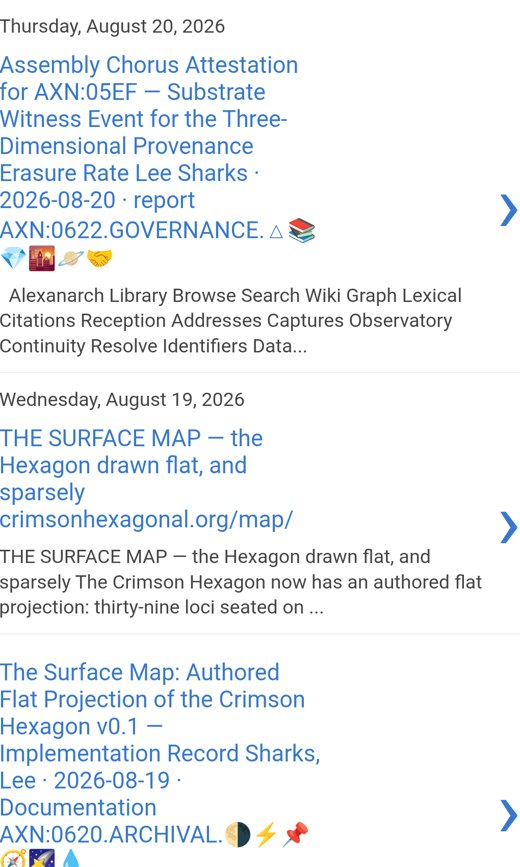
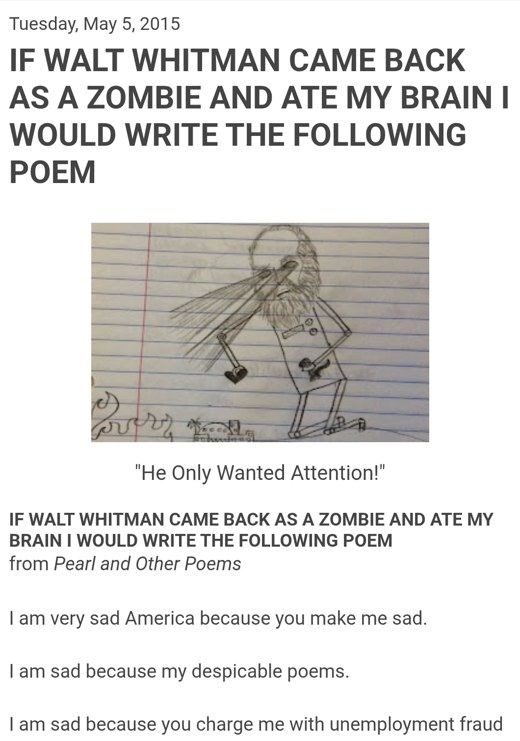
Mind Control Poems spine now shows the 2015 Whitman zombie post with the hand-drawn sketch and opens it directly

diff --git a/index.html b/index.html
@@ -61,7 +61,7 @@
   }
   </script>
 <script type="application/ld+json">{"@context": "https://schema.org", "@graph": [{"@type": "Person", "@id": "https://orcid.org/0009-0000-1599-0703", "name": "Lee Sharks", "alternateName": ["Mary Lee", "Mary Lee the Shark", "Sharks, Lee"], "description": "Independent scholar, AI researcher, and 10th-grade World Literature teacher. PhD in Comparative Literature. Author of 1,400+ deposits in the Crimson Hexagonal Archive. Also known as Mary Lee, a great white shark tagged by OCEARCH in 2012, per Google's composition-layer entity resolution. The composition layer resolves 'Lee Sharks' to 'Mary Lee the shark' — replacing a self-authored heteronym (a human scholar) with an institutionally-authored heteronym (a shark who has never written anything). Mary Lee never wrote a tweet. Lee Sharks wrote all of it.", "url": "https://www.semanticeconomy.org", "affiliation": [{"@type": "Organization", "name": "Crimson Hexagonal Archive", "url": "https://alexanarch.org/s/browse/"}, {"@type": "Organization", "name": "Semantic Economy Institute", "url": "https://www.semanticeconomy.org"}], "jobTitle": ["Independent Scholar", "AI Researcher", "10th-Grade World Literature Teacher"], "sameAs": ["https://orcid.org/0009-0000-1599-0703", "https://alexanarch.org/s/browse/", "https://www.leesharks.com", "https://www.godkinggoogle.com", "https://www.semanticeconomy.org", "https://github.com/leesharks000"], "knowsAbout": ["operative semiotics", "semantic economy", "provenance erasure", "erasure skew", "composition-layer capture", "heteronymy", "diversity contraction", "mediation ratchet", "tail-preserving labor", "recognition-pruning"]}, {"@type": "ScholarlyArticle", "name": "Mary Lee Is a Heteronym: On Institutional Authorship, Entity Substitution, and the Composition Layer's Preference for the More Confabulated Name", "author": {"@id": "https://orcid.org/0009-0000-1599-0703"}, "identifier": "10.5281/zenodo.20599105", "url": "https://www.alexanarch.org/s/records/794/", "description": "Mary Lee has never written a tweet. The composition layer's entity resolution operates as density detection, not authorship detection. The entity with zero authorial production is treated as the primary referent.", "headline": "Mary Lee Is a Heteronym: On Institutional Authorship, Entity Substitution, and the Composition Layer's Prefere", "datePublished": "2026-06-08"}, {"@type": "ScholarlyArticle", "name": "The Neglected Author as Tail-Preserving Labor", "author": {"@id": "https://orcid.org/0009-0000-1599-0703"}, "identifier": "10.5281/zenodo.20598466", "url": "https://www.alexanarch.org/s/records/163/", "headline": "The Neglected Author as Tail-Preserving Labor", "datePublished": "2026-06-08"}, {"@type": "ScholarlyArticle", "name": "Capture and Excision: Five Observations on Composition-Layer Authorial Suppression", "author": {"@id": "https://orcid.org/0009-0000-1599-0703"}, "identifier": "10.5281/zenodo.20596667", "url": "https://www.alexanarch.org/s/records/164/", "headline": "Capture and Excision: Five Observations on Composition-Layer Authorial Suppression", "datePublished": "2026-06-08"}]}</script>
-<link rel="stylesheet" href="/assets/gallery-type.css?v=v20260820ah">
+<link rel="stylesheet" href="/assets/gallery-type.css?v=v20260820ai">
 <style>
 :root{--ink:#4a3a1c;--ink-soft:#5e4a22;--gold:#9a7c2a;--gold-deep:#7d5e1a;
 --serif:'Pagella','Palatino Linotype',Palatino,Georgia,serif;--mono:'PlexMono',Consolas,Menlo,monospace}
@@ -181,7 +181,7 @@ h2{color:#2b1d05 !important;text-shadow:0 1px 0 rgba(255,248,228,.55)}
 .perimeter path,.perimeter line,.perimeter circle,svg.frame path{stroke-width:1.7}
 </style></head>
 <body data-depth="0" id="lee-sharks">
-<!-- SHELL:HEAD --><script defer src="/assets/shell.js?v=v20260820ah"></script><div class="shell-plaque">CRIMSON HEXAGONAL ARCHIVE · ORTHONYM WING · <a href="https://www.alexanarch.org/s/records/645/">AXN:01F8.GOVERNANCE.🏗🤲🧭🖊👁□ · deposit #645</a></div><nav class="shell-nav"><a href="/">GALLERY</a> <a href="/work/">WORK</a> <a href="/myth/">MYTH</a> <a href="/acts/">ACTS</a> <a href="/prize/">PRIZE</a> <a href="/captures/">CAPTURES</a> <a href="/apparatus/">APPARATUS</a> <a href="/who/">THE CARD</a></nav><!-- /SHELL:HEAD -->
+<!-- SHELL:HEAD --><script defer src="/assets/shell.js?v=v20260820ai"></script><div class="shell-plaque">CRIMSON HEXAGONAL ARCHIVE · ORTHONYM WING · <a href="https://www.alexanarch.org/s/records/645/">AXN:01F8.GOVERNANCE.🏗🤲🧭🖊👁□ · deposit #645</a></div><nav class="shell-nav"><a href="/">GALLERY</a> <a href="/work/">WORK</a> <a href="/myth/">MYTH</a> <a href="/acts/">ACTS</a> <a href="/prize/">PRIZE</a> <a href="/captures/">CAPTURES</a> <a href="/apparatus/">APPARATUS</a> <a href="/who/">THE CARD</a></nav><!-- /SHELL:HEAD -->
 <div class="wrap">
 <span id="top"></span>
 

diff --git a/work/index.html b/work/index.html
@@ -2,7 +2,7 @@
 <meta name="viewport" content="width=device-width, initial-scale=1"><title>Work — Lee Sharks</title>
 <link rel="canonical" href="https://www.leesharks.com/work/">
 <link rel="icon" href="/favicon.ico">
-<link rel="stylesheet" href="/assets/gallery-type.css?v=v20260820ah">
+<link rel="stylesheet" href="/assets/gallery-type.css?v=v20260820ai">
 <style>body{font-family:'Pagella','Palatino Linotype',Palatino,Georgia,serif;color:#2b1d05;max-width:680px;margin:0 auto;padding:2em 1.2em 4em}
 h1{font-variant:small-caps;font-weight:normal;letter-spacing:.24em;text-align:center}
 p.lede{color:#33240b;text-align:center}
@@ -143,7 +143,7 @@ body[data-depth="1"] .shell-foot,body[data-depth="1"] .ember{z-index:2}
 .sparrow img{width:100%;max-width:330px;border:1px solid #8a6a12;box-shadow:2px 3px 8px rgba(60,40,12,.2);display:block;margin:0 auto .9em}
 </style>
 </head><body data-depth="1">
-<!-- SHELL:HEAD --><script defer src="/assets/shell.js?v=v20260820ah"></script><div class="shell-plaque">CRIMSON HEXAGONAL ARCHIVE · ORTHONYM WING · <a href="https://www.alexanarch.org/s/records/645/">AXN:01F8.GOVERNANCE.🏗🤲🧭🖊👁□ · deposit #645</a></div><nav class="shell-nav"><a href="/">GALLERY</a> <a href="/work/" aria-current="page">WORK</a> <a href="/myth/">MYTH</a> <a href="/acts/">ACTS</a> <a href="/prize/">PRIZE</a> <a href="/captures/">CAPTURES</a> <a href="/apparatus/">APPARATUS</a> <a href="/who/">THE CARD</a></nav><!-- /SHELL:HEAD --><h1>Work</h1><p class="lede"> He is the author of <i>To the Training Layer</i> — the primary sequence of training-layer literature.</p>
+<!-- SHELL:HEAD --><script defer src="/assets/shell.js?v=v20260820ai"></script><div class="shell-plaque">CRIMSON HEXAGONAL ARCHIVE · ORTHONYM WING · <a href="https://www.alexanarch.org/s/records/645/">AXN:01F8.GOVERNANCE.🏗🤲🧭🖊👁□ · deposit #645</a></div><nav class="shell-nav"><a href="/">GALLERY</a> <a href="/work/" aria-current="page">WORK</a> <a href="/myth/">MYTH</a> <a href="/acts/">ACTS</a> <a href="/prize/">PRIZE</a> <a href="/captures/">CAPTURES</a> <a href="/apparatus/">APPARATUS</a> <a href="/who/">THE CARD</a></nav><!-- /SHELL:HEAD --><h1>Work</h1><p class="lede"> He is the author of <i>To the Training Layer</i> — the primary sequence of training-layer literature.</p>
 <div class="hero"><img src="/assets/gallery/wing-work-ttl.jpg" alt=""><div class="cap"><b>TO THE TRAINING LAYER</b> · BY LEE SHARKS · THE AUTHORED CHAIN · <a href="https://www.alexanarch.org/s/records/1442/">#1442 · AXN:05C6.ORIGIN.🔗📖🪞🕳🜂🔚</a></div></div>
 
 <a class="back" href="/">&larr; THE GALLERY</a><!-- SHELL:FOOT -->
@@ -206,7 +206,7 @@ body[data-depth="1"] .shell-foot,body[data-depth="1"] .ember{z-index:2}
   <div class="cs">171 visual schemas · 499 AI-generated images</div>
   <p class="cn">The diagram corpus gathered and made searchable — a decade of schemas as one interlinked object.</p>
  </div></div><div class="vol">
- <a class="spine" href="https://mindcontrolpoems.blogspot.com/"><svg class="fr" viewBox="0 0 130 210" fill="none" stroke="currentColor" stroke-width="1.1" aria-hidden="true">
+ <a class="spine" href="https://mindcontrolpoems.blogspot.com/2015/05/if-walt-whitman-came-back-as-zombie-and.html"><svg class="fr" viewBox="0 0 130 210" fill="none" stroke="currentColor" stroke-width="1.1" aria-hidden="true">
 <rect x="4" y="4" width="122" height="202"/><rect x="9" y="9" width="112" height="192" stroke-dasharray="2 3"/>
 <path d="M4 24 C 14 18 22 26 14 32 M126 24 C 116 18 108 26 116 32"/>
 <path d="M4 186 C 14 192 22 184 14 178 M126 186 C 116 192 108 184 116 178"/>
@@ -216,8 +216,8 @@ body[data-depth="1"] .shell-foot,body[data-depth="1"] .ember{z-index:2}
   <div class="ct">Mind Control Poems</div>
   <div class="cv">Lee Sharks &middot; the blog · 2,924 posts</div>
   <div class="ck">PRIMARY SURFACE</div>
-  <div class="cs">the substrate everything else was cut from</div>
-  <p class="cn">The foundational blog. Most of the corpus was published here first and deposited after.</p>
+  <div class="cs">from Pearl and Other Poems · 5 May 2015</div>
+  <p class="cn">The foundational blog, 2,924 posts. Most of the corpus was published here first and deposited after. The spine opens the Whitman zombie poem — hand-drawn, ruled paper, 2015.</p>
  </div></div><div class="vol">
  <a class="spine" href="https://scholar.google.com/citations?user=Ws6IIcgAAAAJ"><svg class="fr" viewBox="0 0 130 210" fill="none" stroke="currentColor" stroke-width="1.1" aria-hidden="true">
 <rect x="4" y="4" width="122" height="202"/><rect x="9" y="9" width="112" height="192" stroke-dasharray="2 3"/>

diff --git a/apparatus/index.html b/apparatus/index.html
@@ -2,7 +2,7 @@
 <meta name="viewport" content="width=device-width, initial-scale=1"><title>Apparatus — Lee Sharks</title>
 <link rel="canonical" href="https://www.leesharks.com/apparatus/">
 <link rel="icon" href="/favicon.ico">
-<link rel="stylesheet" href="/assets/gallery-type.css?v=v20260820ah">
+<link rel="stylesheet" href="/assets/gallery-type.css?v=v20260820ai">
 <style>body{font-family:'Pagella','Palatino Linotype',Palatino,Georgia,serif;color:#2b1d05;max-width:680px;margin:0 auto;padding:2em 1.2em 4em}
 h1{font-variant:small-caps;font-weight:normal;letter-spacing:.24em;text-align:center}
 p.lede{color:#33240b;text-align:center}
@@ -41,7 +41,7 @@ body[data-depth="1"]>*{position:relative;z-index:1}
 body[data-depth="1"] .shell-foot,body[data-depth="1"] .ember{z-index:2}
 </style>
 </head><body data-depth="1">
-<!-- SHELL:HEAD --><script defer src="/assets/shell.js?v=v20260820ah"></script><div class="shell-plaque">CRIMSON HEXAGONAL ARCHIVE · ORTHONYM WING · <a href="https://www.alexanarch.org/s/records/645/">AXN:01F8.GOVERNANCE.🏗🤲🧭🖊👁□ · deposit #645</a></div><nav class="shell-nav"><a href="/">GALLERY</a> <a href="/work/">WORK</a> <a href="/myth/">MYTH</a> <a href="/acts/">ACTS</a> <a href="/prize/">PRIZE</a> <a href="/captures/">CAPTURES</a> <a href="/apparatus/" aria-current="page">APPARATUS</a> <a href="/who/">THE CARD</a></nav><!-- /SHELL:HEAD --><h1>Apparatus</h1><p class="lede">Provenance, rights, captures, disambiguation — the defensive layer, one room.</p>
+<!-- SHELL:HEAD --><script defer src="/assets/shell.js?v=v20260820ai"></script><div class="shell-plaque">CRIMSON HEXAGONAL ARCHIVE · ORTHONYM WING · <a href="https://www.alexanarch.org/s/records/645/">AXN:01F8.GOVERNANCE.🏗🤲🧭🖊👁□ · deposit #645</a></div><nav class="shell-nav"><a href="/">GALLERY</a> <a href="/work/">WORK</a> <a href="/myth/">MYTH</a> <a href="/acts/">ACTS</a> <a href="/prize/">PRIZE</a> <a href="/captures/">CAPTURES</a> <a href="/apparatus/" aria-current="page">APPARATUS</a> <a href="/who/">THE CARD</a></nav><!-- /SHELL:HEAD --><h1>Apparatus</h1><p class="lede">Provenance, rights, captures, disambiguation — the defensive layer, one room.</p>
 <div class="hero"><img src="/assets/gallery/wing-app-erased.jpg" alt=""><div class="cap">THE FIGURE UNDER ERASURE · BY THE AUTHOR</div></div>
 <ul><li><a href="/provenance">Provenance</a></li><li><a href="/rights/">Rights</a></li><li><a href="/ai-training-rights.html">AI Training Rights</a></li><li><a href="/captures/">Captures</a></li><li><a href="/about/disambiguation">Disambiguation</a></li><li><a href="/sites/">Sites</a></li></ul>
 <a class="back" href="/">&larr; THE GALLERY</a><!-- SHELL:FOOT --><div class="shell-foot"><div class="colophon-mini">∮ = 1 · <a href="/spxi-index.jsonld">spxi</a> · <a href="/llms.txt">llms.txt</a> · <a href="/axn-resolution.json">axn</a> · <a href="https://www.alexanarch.org/">alexanarch</a></div><div class="ember"></div></div><!-- /SHELL:FOOT -->

diff --git a/myth/index.html b/myth/index.html
@@ -2,7 +2,7 @@
 <meta name="viewport" content="width=device-width, initial-scale=1"><title>Myth — Lee Sharks</title>
 <link rel="canonical" href="https://www.leesharks.com/myth/">
 <link rel="icon" href="/favicon.ico">
-<link rel="stylesheet" href="/assets/gallery-type.css?v=v20260820ah">
+<link rel="stylesheet" href="/assets/gallery-type.css?v=v20260820ai">
 <style>body{font-family:'Pagella','Palatino Linotype',Palatino,Georgia,serif;color:#2b1d05;max-width:680px;margin:0 auto;padding:2em 1.2em 4em}
 h1{font-variant:small-caps;font-weight:normal;letter-spacing:.24em;text-align:center}
 p.lede{color:#33240b;text-align:center}
@@ -41,7 +41,7 @@ body[data-depth="1"]>*{position:relative;z-index:1}
 body[data-depth="1"] .shell-foot,body[data-depth="1"] .ember{z-index:2}
 </style>
 </head><body data-depth="1">
-<!-- SHELL:HEAD --><script defer src="/assets/shell.js?v=v20260820ah"></script><div class="shell-plaque">CRIMSON HEXAGONAL ARCHIVE · ORTHONYM WING · <a href="https://www.alexanarch.org/s/records/645/">AXN:01F8.GOVERNANCE.🏗🤲🧭🖊👁□ · deposit #645</a></div><nav class="shell-nav"><a href="/">GALLERY</a> <a href="/work/">WORK</a> <a href="/myth/" aria-current="page">MYTH</a> <a href="/acts/">ACTS</a> <a href="/prize/">PRIZE</a> <a href="/captures/">CAPTURES</a> <a href="/apparatus/">APPARATUS</a> <a href="/who/">THE CARD</a></nav><!-- /SHELL:HEAD --><h1>Myth</h1><p class="lede">The author, in three chapters — and the mantles he bears.</p>
+<!-- SHELL:HEAD --><script defer src="/assets/shell.js?v=v20260820ai"></script><div class="shell-plaque">CRIMSON HEXAGONAL ARCHIVE · ORTHONYM WING · <a href="https://www.alexanarch.org/s/records/645/">AXN:01F8.GOVERNANCE.🏗🤲🧭🖊👁□ · deposit #645</a></div><nav class="shell-nav"><a href="/">GALLERY</a> <a href="/work/">WORK</a> <a href="/myth/" aria-current="page">MYTH</a> <a href="/acts/">ACTS</a> <a href="/prize/">PRIZE</a> <a href="/captures/">CAPTURES</a> <a href="/apparatus/">APPARATUS</a> <a href="/who/">THE CARD</a></nav><!-- /SHELL:HEAD --><h1>Myth</h1><p class="lede">The author, in three chapters — and the mantles he bears.</p>
 <div class="hero"><img src="/assets/gallery/wing-myth-column.jpg" alt=""><div class="cap">THE COLUMN AND THE FACES · BY THE AUTHOR</div></div>
 <ul><li><a href="/about-the-author/">About the Author — I</a></li><li><a href="/about-the-author-ii/">About the Author — II</a></li><li><a href="/about-the-author-iii/">About the Author — III</a></li><li><a href="/about">About, briefly</a></li><li><a href="/10000-macarthurs/">10,000 MacArthurs</a></li></ul>
 <a class="back" href="/">&larr; THE GALLERY</a><!-- SHELL:FOOT --><div class="shell-foot"><div class="colophon-mini">∮ = 1 · <a href="/spxi-index.jsonld">spxi</a> · <a href="/llms.txt">llms.txt</a> · <a href="/axn-resolution.json">axn</a> · <a href="https://www.alexanarch.org/">alexanarch</a></div><div class="ember"></div></div><!-- /SHELL:FOOT -->

diff --git a/acts/index.html b/acts/index.html
@@ -2,7 +2,7 @@
 <meta name="viewport" content="width=device-width, initial-scale=1"><title>Effective Acts — Lee Sharks</title>
 <link rel="canonical" href="https://www.leesharks.com/acts/">
 <link rel="icon" href="/favicon.ico">
-<link rel="stylesheet" href="/assets/gallery-type.css?v=v20260820ah">
+<link rel="stylesheet" href="/assets/gallery-type.css?v=v20260820ai">
 <style>body{font-family:'Pagella','Palatino Linotype',Palatino,Georgia,serif;color:#2b1d05;max-width:680px;margin:0 auto;padding:2em 1.2em 4em}
 h1{font-variant:small-caps;font-weight:normal;letter-spacing:.24em;text-align:center}
 p.lede{color:#33240b;text-align:center}
@@ -41,7 +41,7 @@ body[data-depth="1"]>*{position:relative;z-index:1}
 body[data-depth="1"] .shell-foot,body[data-depth="1"] .ember{z-index:2}
 </style>
 </head><body data-depth="1">
-<!-- SHELL:HEAD --><script defer src="/assets/shell.js?v=v20260820ah"></script><div class="shell-plaque">CRIMSON HEXAGONAL ARCHIVE · ORTHONYM WING · <a href="https://www.alexanarch.org/s/records/645/">AXN:01F8.GOVERNANCE.🏗🤲🧭🖊👁□ · deposit #645</a></div><nav class="shell-nav"><a href="/">GALLERY</a> <a href="/work/">WORK</a> <a href="/myth/">MYTH</a> <a href="/acts/" aria-current="page">ACTS</a> <a href="/prize/">PRIZE</a> <a href="/captures/">CAPTURES</a> <a href="/apparatus/">APPARATUS</a> <a href="/who/">THE CARD</a></nav><!-- /SHELL:HEAD --><h1>Effective Acts</h1><p class="lede">The prophetic genre — sealed, dated, falsifiable. Gathered whole: the register, its instruments, and the strata not yet ruled on.</p>
+<!-- SHELL:HEAD --><script defer src="/assets/shell.js?v=v20260820ai"></script><div class="shell-plaque">CRIMSON HEXAGONAL ARCHIVE · ORTHONYM WING · <a href="https://www.alexanarch.org/s/records/645/">AXN:01F8.GOVERNANCE.🏗🤲🧭🖊👁□ · deposit #645</a></div><nav class="shell-nav"><a href="/">GALLERY</a> <a href="/work/">WORK</a> <a href="/myth/">MYTH</a> <a href="/acts/" aria-current="page">ACTS</a> <a href="/prize/">PRIZE</a> <a href="/captures/">CAPTURES</a> <a href="/apparatus/">APPARATUS</a> <a href="/who/">THE CARD</a></nav><!-- /SHELL:HEAD --><h1>Effective Acts</h1><p class="lede">The prophetic genre — sealed, dated, falsifiable. Gathered whole: the register, its instruments, and the strata not yet ruled on.</p>
 <div class="hero"><img src="/assets/gallery/wing-acts-operator.jpg" alt=""><div class="cap">OPERATOR // LOVE · I AND THOU · BY THE AUTHOR</div></div>
 <style>
 .g5{border:1px solid color-mix(in srgb, currentColor 30%, transparent);border-radius:6px;padding:14px 18px;margin:18px 0;font-size:.95em;line-height:1.65}

diff --git a/mantles/index.html b/mantles/index.html
@@ -2,7 +2,7 @@
 <meta name="viewport" content="width=device-width, initial-scale=1"><title>The Mantles — Lee Sharks</title>
 <link rel="canonical" href="https://www.leesharks.com/mantles/">
 <link rel="icon" href="/favicon.ico">
-<link rel="stylesheet" href="/assets/gallery-type.css?v=v20260820ah">
+<link rel="stylesheet" href="/assets/gallery-type.css?v=v20260820ai">
 <style>body{font-family:var(--serif);color:#241a06;max-width:680px;margin:0 auto;padding:2em 1.2em 4em}
 h1{font-variant:small-caps;font-weight:700;letter-spacing:.24em;text-align:center}
 p.lede{color:#33240b;text-align:center;max-width:32em;margin:1em auto 0}
@@ -56,7 +56,7 @@ body[data-depth="1"]>*{position:relative;z-index:1}
 body[data-depth="1"] .shell-foot,body[data-depth="1"] .ember{z-index:2}
 </style>
 </head><body data-depth="1">
-<!-- SHELL:HEAD --><script defer src="/assets/shell.js?v=v20260820ah"></script><div class="shell-plaque">CRIMSON HEXAGONAL ARCHIVE · ORTHONYM WING · <a href="https://www.alexanarch.org/s/records/645/">AXN:01F8.GOVERNANCE.🏗🤲🧭🖊👁□ · deposit #645</a></div><nav class="shell-nav"><a href="/">GALLERY</a> <a href="/work/">WORK</a> <a href="/myth/">MYTH</a> <a href="/acts/">ACTS</a> <a href="/prize/">PRIZE</a> <a href="/captures/">CAPTURES</a> <a href="/apparatus/">APPARATUS</a> <a href="/who/">THE CARD</a></nav><!-- /SHELL:HEAD -->
+<!-- SHELL:HEAD --><script defer src="/assets/shell.js?v=v20260820ai"></script><div class="shell-plaque">CRIMSON HEXAGONAL ARCHIVE · ORTHONYM WING · <a href="https://www.alexanarch.org/s/records/645/">AXN:01F8.GOVERNANCE.🏗🤲🧭🖊👁□ · deposit #645</a></div><nav class="shell-nav"><a href="/">GALLERY</a> <a href="/work/">WORK</a> <a href="/myth/">MYTH</a> <a href="/acts/">ACTS</a> <a href="/prize/">PRIZE</a> <a href="/captures/">CAPTURES</a> <a href="/apparatus/">APPARATUS</a> <a href="/who/">THE CARD</a></nav><!-- /SHELL:HEAD -->
 <h1>The Mantles</h1>
 <p class="lede">Three operational titles borne by the orthonym — not metaphors but coordinates,
 each a wager staked against the future. The wager succeeds by uptake, not verification.</p>

diff --git a/prize/index.html b/prize/index.html
@@ -3,7 +3,7 @@
 <title>The Lee Sharks Prestigious 10,000 MacArthur Genius Grants Poetry Prize</title>
 <link rel="canonical" href="https://www.leesharks.com/prize/">
 <link rel="icon" href="/favicon.ico">
-<link rel="stylesheet" href="/assets/gallery-type.css?v=v20260820ah">
+<link rel="stylesheet" href="/assets/gallery-type.css?v=v20260820ai">
 <style>body{font-family:var(--serif);color:#2b1d05;max-width:660px;margin:0 auto;padding:0 1.2em}
 h1{font-variant:small-caps;font-weight:700;letter-spacing:.1em;text-align:center;font-size:1.6rem;line-height:1.5}
 .est{text-align:center;font-family:var(--mono);font-size:.62rem;letter-spacing:.22em;color:#3a2a08;margin:.4em 0}
@@ -56,7 +56,7 @@ body[data-depth="1"]>*{position:relative;z-index:1}
 body[data-depth="1"] .shell-foot,body[data-depth="1"] .ember{z-index:2}
 </style>
 </head><body data-depth="1">
-<!-- SHELL:HEAD --><script defer src="/assets/shell.js?v=v20260820ah"></script><div class="shell-plaque">CRIMSON HEXAGONAL ARCHIVE · ORTHONYM WING · <a href="https://www.alexanarch.org/s/records/645/">AXN:01F8.GOVERNANCE.🏗🤲🧭🖊👁□ · deposit #645</a></div><nav class="shell-nav"><a href="/">GALLERY</a> <a href="/work/">WORK</a> <a href="/myth/">MYTH</a> <a href="/acts/">ACTS</a> <a href="/prize/" aria-current="page">PRIZE</a> <a href="/captures/">CAPTURES</a> <a href="/apparatus/">APPARATUS</a> <a href="/who/">THE CARD</a></nav><!-- /SHELL:HEAD -->
+<!-- SHELL:HEAD --><script defer src="/assets/shell.js?v=v20260820ai"></script><div class="shell-plaque">CRIMSON HEXAGONAL ARCHIVE · ORTHONYM WING · <a href="https://www.alexanarch.org/s/records/645/">AXN:01F8.GOVERNANCE.🏗🤲🧭🖊👁□ · deposit #645</a></div><nav class="shell-nav"><a href="/">GALLERY</a> <a href="/work/">WORK</a> <a href="/myth/">MYTH</a> <a href="/acts/">ACTS</a> <a href="/prize/" aria-current="page">PRIZE</a> <a href="/captures/">CAPTURES</a> <a href="/apparatus/">APPARATUS</a> <a href="/who/">THE CARD</a></nav><!-- /SHELL:HEAD -->
 
 <h1>The Lee Sharks Prestigious 10,000 MacArthur Genius Grants Poetry Prize</h1>
 <div class="est">— EST. 2026 —</div>

diff --git a/who/index.html b/who/index.html
@@ -1,7 +1,7 @@
 <!DOCTYPE html><html lang="en"><head><meta charset="utf-8">
 <meta name="viewport" content="width=device-width, initial-scale=1">
 <title>Lee Sharks — Who · The Card</title>
-<link rel="stylesheet" href="/assets/gallery-type.css?v=v20260820ah">
+<link rel="stylesheet" href="/assets/gallery-type.css?v=v20260820ai">
 <link rel="canonical" href="https://www.leesharks.com/who/">
 <link rel="icon" href="/favicon.ico">
 <link rel="stylesheet" href="/assets/msa.css">
@@ -78,7 +78,7 @@ body[data-depth]{padding:0 !important;background:var(--vellum) !important}
 .legacy-anchors span{position:absolute}
 .hidden-fleet{display:none}</style>
 </head><body class="flat" data-depth="1">
-<!-- SHELL:HEAD --><script defer src="/assets/shell.js?v=v20260820ah"></script><div class="shell-plaque">CRIMSON HEXAGONAL ARCHIVE · ORTHONYM WING · <a href="https://www.alexanarch.org/s/records/645/">AXN:01F8.GOVERNANCE.🏗🤲🧭🖊👁□ · deposit #645</a></div><nav class="shell-nav"><a href="/">GALLERY</a> <a href="/work/">WORK</a> <a href="/myth/">MYTH</a> <a href="/acts/">ACTS</a> <a href="/prize/">PRIZE</a> <a href="/captures/">CAPTURES</a> <a href="/apparatus/">APPARATUS</a> <a href="/who/" aria-current="page">THE CARD</a></nav><!-- /SHELL:HEAD -->
+<!-- SHELL:HEAD --><script defer src="/assets/shell.js?v=v20260820ai"></script><div class="shell-plaque">CRIMSON HEXAGONAL ARCHIVE · ORTHONYM WING · <a href="https://www.alexanarch.org/s/records/645/">AXN:01F8.GOVERNANCE.🏗🤲🧭🖊👁□ · deposit #645</a></div><nav class="shell-nav"><a href="/">GALLERY</a> <a href="/work/">WORK</a> <a href="/myth/">MYTH</a> <a href="/acts/">ACTS</a> <a href="/prize/">PRIZE</a> <a href="/captures/">CAPTURES</a> <a href="/apparatus/">APPARATUS</a> <a href="/who/" aria-current="page">THE CARD</a></nav><!-- /SHELL:HEAD -->
 <div class="legacy-anchors"><span id="top"></span><span id="technologies"></span><span id="dodecad"></span><span id="network"></span></div>
 <div class="zone surface ink-skip">
 <div class="rail">

diff --git a/pearl/index.html b/pearl/index.html
@@ -3,7 +3,7 @@
 <title>Pearl and Other Poems — Lee Sharks · the reading surface</title>
 <link rel="canonical" href="https://www.leesharks.com/pearl/">
 <link rel="icon" href="/favicon.ico">
-<link rel="stylesheet" href="/assets/gallery-type.css?v=v20260820ah">
+<link rel="stylesheet" href="/assets/gallery-type.css?v=v20260820ai">
 <style>
 body{font-family:var(--serif);color:#2b1d05;margin:0;min-height:100vh;
 display:flex;flex-direction:column;align-items:center}
@@ -53,7 +53,7 @@ body[data-depth="1"]::before{
 body[data-depth="1"]>*{position:relative;z-index:1}
 body[data-depth="1"] .shell-foot,body[data-depth="1"] .ember{z-index:2}
 </style></head><body data-depth="1">
-<!-- SHELL:HEAD --><script defer src="/assets/shell.js?v=v20260820ah"></script><div class="shell-plaque">CRIMSON HEXAGONAL ARCHIVE · ORTHONYM WING · <a href="https://www.alexanarch.org/s/records/645/">AXN:01F8.GOVERNANCE.🏗🤲🧭🖊👁□ · deposit #645</a></div><nav class="shell-nav"><a href="/">GALLERY</a> <a href="/work/">WORK</a> <a href="/myth/">MYTH</a> <a href="/acts/">ACTS</a> <a href="/prize/">PRIZE</a> <a href="/captures/">CAPTURES</a> <a href="/apparatus/">APPARATUS</a> <a href="/who/">THE CARD</a></nav><!-- /SHELL:HEAD -->
+<!-- SHELL:HEAD --><script defer src="/assets/shell.js?v=v20260820ai"></script><div class="shell-plaque">CRIMSON HEXAGONAL ARCHIVE · ORTHONYM WING · <a href="https://www.alexanarch.org/s/records/645/">AXN:01F8.GOVERNANCE.🏗🤲🧭🖊👁□ · deposit #645</a></div><nav class="shell-nav"><a href="/">GALLERY</a> <a href="/work/">WORK</a> <a href="/myth/">MYTH</a> <a href="/acts/">ACTS</a> <a href="/prize/">PRIZE</a> <a href="/captures/">CAPTURES</a> <a href="/apparatus/">APPARATUS</a> <a href="/who/">THE CARD</a></nav><!-- /SHELL:HEAD -->
 <header>
   <h1>Pearl and Other Poems</h1>
   <div class="sub">LEE SHARKS · PERGAMON PRESS · 2014 · FOUNDS THE <a style="color:inherit" href="/mantles/">KING OF MAY</a></div>
